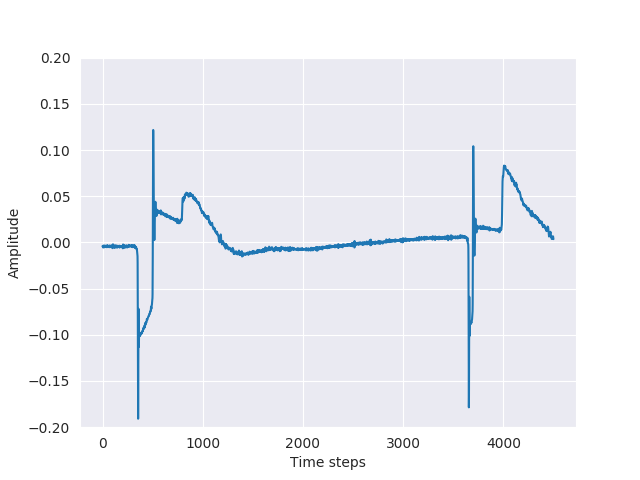
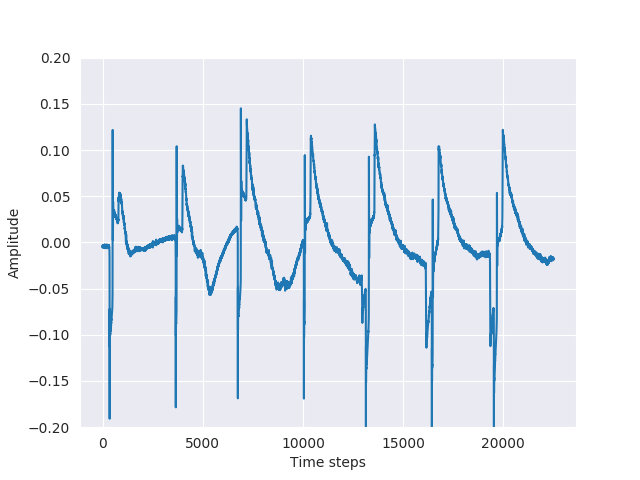
update figure

diff --git a/generate_sample figures.py b/generate_sample figures.py
@@ -39,7 +39,7 @@ if __name__=='__main__':
     plt.close('all')
     start_idx = 5999900 + 6350
     data1, data_deriv, data_deriv_abs, data_deriv_filt, data_deriv_step = \
-    find_peaks(data, start_idx, 4500*1)
+    find_peaks(data, start_idx, 4500*5)
     plot(data1, 'Time steps', 'Amplitude', 'images/initial_signal.png')
     
     start_idx = 5999900 + 6650
